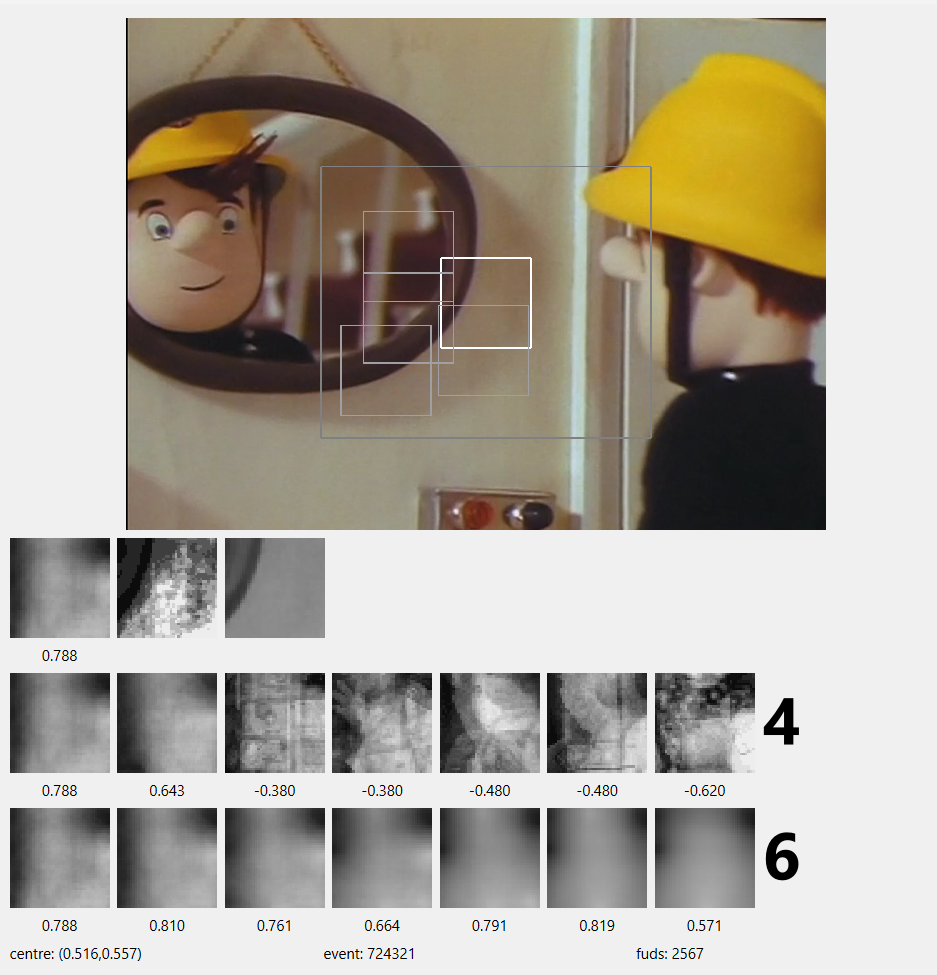
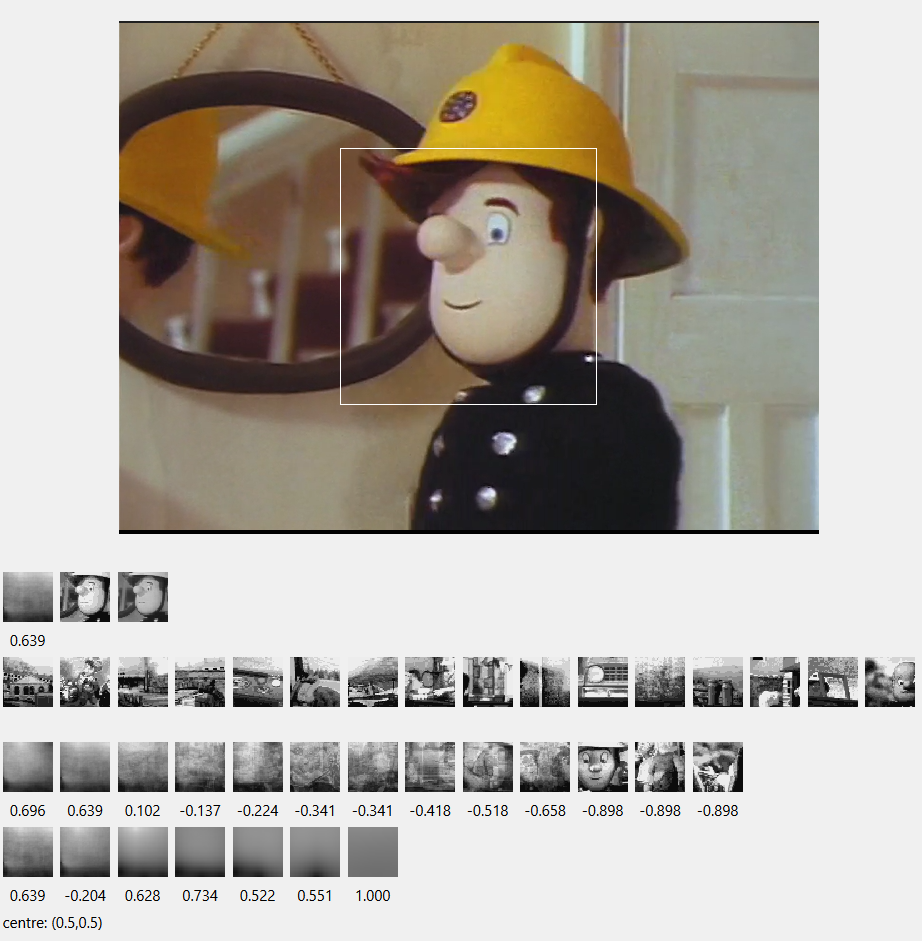
fix model 10 images, readme

diff --git a/README.md b/README.md
@@ -760,7 +760,7 @@ with `actor.json` -
 	"interval" : 250,
 	"x" : 870,
 	"width" : 560,
-	"model_initial" : "model010",
+	"model_initial" : "model013",
 	"mode" : "mode004",
 	"event_size" : 5,
 	"threads" : 6,
@@ -777,7 +777,7 @@ with `actor.json` -
 ```
 (Note that if there is no description here of a configuration parameter, the code can be examined in `win007.cpp` and `win008.cpp`.) Here is an example from Fireman Sam captured in the opening sequence of the first episode -
  
-![actor002_model010_Sam_001](images/actor002_model010_Sam_001.png) 
+![actor002_model013_Sam_001](images/actor002_model013_Sam_001.png) 
 
 Now `actor002` differs from `actor001`; instead of the array of representations for all of the scales that we see in `actor001`, we are able to see more details of the position that the current fixed scale *slice* has within the *model*. 
 
@@ -787,7 +787,7 @@ In the second row the sibling *slice* representations and their *likelihoods* ar
 
 The third row shows the ancestor *slices*, with the current *slice* shown first, then its parent, grandparent, great-grandparent, et cetera to the root *slice*. If there are too many ancestors the number of missing ancestors is shown at the right.  If all of the ancestors are visible, the sequence shows from right to left the increasing specialisation of the *slice* along its path through the *model*, from the most general at the root, which is the average of all *events*, to the *slice* itself at the leaf.
 
-<a name="model010"></a>
+<a name="model013"></a>
  
 To show a selection of example *events* from the current *slice*, set `interactive_examples` in the configuration. (We can also set `multiplier` to 1 to show smaller images of the example *events*.) For example, `actor.json` -
 ```
@@ -795,7 +795,7 @@ To show a selection of example *events* from the current *slice*, set `interacti
 	"interval" : 250,
 	"x" : 870,
 	"width" : 560,
-	"model_initial" : "model010",
+	"model_initial" : "model013",
 	"mode" : "mode004",
 	"event_size" : 5,
 	"threads" : 6,
@@ -813,15 +813,15 @@ To show a selection of example *events* from the current *slice*, set `interacti
 	"warning_action" : false
 }
 ```
-![actor002_model010_Sam_002](images/actor002_model010_Sam_002.png) 
+![actor002_model013_Sam_002](images/actor002_model013_Sam_002.png) 
 
 The examples row is inserted between the top row and the siblings row. There are as many example representations as can be fitted in the available images (defined by `label_size` in the configuration). If the *slice* has more *events* than the available images, they are taken at regular intervals from the *slice*.
 
-In the Fireman Sam example above we can see the *slice* matches the greyscale record only very roughly. The bucketing of the *valency* record has exaggerated the slightly varying brightness of the wallpaper to the right of the mirror frame, and so the *slice* has matched a dark area in the top right which is really just an artefact of the `valent` algorithm. 
+In the Fireman Sam example above we can see the *slice* representation matches the greyscale record only very roughly.
 
-There are two *on-diagonal* siblings in this case, with the current *slice* being the larger of the two. *On-diagonal* siblings usually resemble each other except for where the *derived alignment* of their *fud* forks the divergence. The *on-diagonal* siblings are usually still very generalised, depending on the length of their path, while the *off-diagonal* siblings look like the ghostly mixtures of the few *events* they contain.
+There are two *on-diagonal* siblings in this case, with a third somewhat off the *diagonal*. The current *slice* has the largest *likelihood*. *On-diagonal* siblings usually resemble each other except for where the *derived alignment* of their *fud* forks the divergence. The *on-diagonal* siblings are usually still very generalised, depending on the length of their path, while the *off-diagonal* siblings look like the ghostly mixtures of the few *events* they contain.
 
-In the Fireman Sam example above we can see that the examples vary a lot, but they all have darker areas on the left hand margin and at the top right. None of them look like mirror frames.
+In the Fireman Sam example above we can see that the examples vary a lot, but they all have darker areas at the top right. Only two look like eyes but neither are at quite the correct position.
  
 We can examine the same image with a *model* that uses the `valentFixed` algorithm instead. For example, `actor.json` -
 ```
@@ -829,14 +829,11 @@ We can examine the same image with a *model* that uses the `valentFixed` algorit
 	"interval" : 250,
 	"x" : 870,
 	"width" : 560,
-	"model_initial" : "model036",
-	"mode" : "mode004",
+	"model_initial" : "model013",
 	"event_size" : 1,
 	"threads" : 6,
 	"valency_fixed" : true,
 	"scale" : 0.177,
-	"range_centreX" : 0.04425,
-	"range_centreY" :0.04425,
 	"interactive" : true,
 	"interactive_examples" : true,
 	"multiplier" : 1,
@@ -847,9 +844,9 @@ We can examine the same image with a *model* that uses the `valentFixed` algorit
 	"warning_action" : false
 }
 ```
-![actor002_model010_Sam_003](images/actor002_model010_Sam_003.png) 
+![actor002_model013_Sam_003](images/actor002_model013_Sam_003.png) 
 
-We introduced the `valentFixed` algorithm when we switched from Fireman Sam to Film Noir (see *model* 25 and after, below). We can see that the examples above are from the Film Noir films rather than Fireman Sam, but the *slice* has matched the darker area in the top left correctly.
+We introduced the `valentFixed` algorithm when we switched from Fireman Sam to Film Noir (see *model* 25 and after, below). The *slice* path length is now somewhat shorter. We can see from that the examples above that the *slice* has matched the darker area in the top right correctly, although not as well as the `valent` algorithm on which this *model* was trained.
 
 In this scene from 'Citizen Kane' the mode 4 focus has found a hotspot just above the woman's left eye using *model* 41 -
 
@@ -1294,7 +1291,7 @@ First let us examine the `length_file` -
 
 ![contour005_055_minent_length](images/contour005_055_minent_length.png) 
 
-Here we show the lengths of the *slice* path at each point with the brightness of the pixel in proportion to the length as a fraction of the maximum length. So the bright locations may be thought of as hotspots where the *model* is particularly specialised. In this case we can see hotspots around the edges of the man's face and shoulders. In the example above we restrict the generated image only to those regions where the frame entropy is not less than the minimim of 1.2. We can generate the image without the minimum entropy -
+Here we show the lengths of the *slice* path in the *decomposition* at each point with the brightness of the pixel in proportion to the length as a fraction of the maximum length. So the bright locations may be thought of as hotspots where the *model* is particularly specialised. In this case we can see hotspots around the edges of the man's face and shoulders. In the example above we restrict the generated image only to those regions where the frame entropy is not less than the minimim of 1.2. We can generate the image without the minimum entropy -
 
 ![contour005_055_length](images/contour005_055_length.png) 
 
@@ -1414,7 +1411,7 @@ Intermediate between the quantitative and qualitative are the contour images. Se
 
 ##### Random models
 
-*Models* 10-14 run in `mode001` which is the pure random mode of [`actor001`](#actor001). `event_size` *events* are taken from each image with the frame centres randomly chosen in a area +/- `random_centreX` and  +/- `random_centreY` about the centre of the image `(0.5,0.5)`. A record is constructed and bucketed for the frame. See [Records and representations](#Records_and_representations) above for details. 
+*Models* 10-14 run in `mode001` which is the pure random mode of [`actor001`](#actor001). `event_size` *events* are taken from each image with the frame centres randomly chosen in a area +/- `random_centreX` and  +/- `random_centreY` about the centre of the image `(0.5,0.5)`. The frame's scale is fixed by the `scale` parameter, which defaults to 0.5. The scales are successive decreases in half integral powers of two from *model* 10 with a scale of 0.5 to *model* 13 with a scale of 0.177. A record is constructed and bucketed for the frame. See [Records and representations](#Records_and_representations) above for details. 
 
 If `entropy_minimum` is set to some non-zero positive real number, e.g. `"entropy_minimum" : 1.2`, records with lower entropies will be rejected. See also the discussion about [browsing entropies](#interactive_entropies) above. Note that the `entropy_minimum` functionality is only used after *model* 47, when it was noticed that interesting features such as faces were being ignored in favour of the dark corners so common in Film Noir.
 
@@ -1428,21 +1425,91 @@ If `entropy_minimum` is set to some non-zero positive real number, e.g. `"entrop
 	"event_size" : 4,
 	"random_centreX" : 0.41,
 	"random_centreY" : 0.25,
-	"event_maximum" : 720001,
+	"event_maximum" : 720000,
 	"lag_threshold" : 5,
 	"motion_detection_threshold" : 25,
 	"logging_event" : true,
 	"logging_event_factor" : 1000,
-	"warning_action" : true,
+	"warning_action" : false,
 	"summary_active" : true
 }
 ```
+We can browse in `actor002` with the following `actor.json` -
+```
+{
+	"interval" : 250,
+	"x" : 870,
+	"width" : 560,
+	"model_initial" : "model010",
+	"threads" : 6,
+	"interactive" : true,
+	"interactive_examples" : true,
+	"multiplier" : 1,
+	"label_size" : 16,
+	"disable_update" : true
+}
+```
+![actor002_model010_Sam_001](images/actor002_model010_Sam_001.png) 
 
-Screenshots from *model* 10 are included in the discussion of [interactive browsing](#model010), above. The *slices* do not yet seem to capture features. The examples are only related by their areas of light and dark.
+The *slices* do not yet seem to capture features. The examples are only related by their areas of light and dark. Browsing around suggests that near the root *slices* the representations mainly have a light centre and tend to *classified* by the arrangement of brightness around the periphery of the frame.
 
-10,11,12,13 differ in their scales but all have similar growth rates, means and std devs, so clearly smaller models are fairly scale invariant - possibly because common foreground features are at various distances, but more likely is that smaller models are still distinguishing between various distributions of light and dark, mainly with a lighter centre
+This is the configuration for *model* 13, `model013.json` -
+```
+{
+	"model" : "model013",
+	"interval" : 40,
+	"mode" : "mode001",
+	"scale" : 0.177,
+	"event_size" : 4,
+	"random_centreX" : 0.549,
+	"random_centreY" : 0.412,
+	"event_maximum" : 720000,
+	"lag_threshold" : 5,
+	"motion_detection_threshold" : 25,
+	"logging_event" : true,
+	"logging_event_factor" : 1000,
+	"warning_action" : false,
+	"summary_active" : true
+}
+```
+Screenshots from *model* 13 are included in the discussion of [interactive browsing](#model013), above, for example -
 
-14 is the same as 12 but with a higher threshold, however we see the growth rate decline slightly.
+![actor002_model013_Sam_002](images/actor002_model013_Sam_002.png) 
+
+As can be seen in the table above, *models* 10, 11, 12 and 13 differ only in their scales but all have similar growth rates, means and deviations. So it seems that, from a statistical point of view, these small *models*, of mean *decomposition* path length of only around 7, are fairly scale invariant. Possibly this is because common foreground features are at varying distances, but a more likely reason is that the *models* are still at the stage of distinguishing between only very general distributions of light and dark. 
+
+*Model* 14 is the same as 12 but with a higher threshold (1000 instead of the default of 200), `model014.json` -
+```
+{
+	"model" : "model014",
+	"interval" : 40,
+	"mode" : "mode001",
+	"induceThreshold" : 1000,
+	"scale" : 0.25,
+	"event_size" : 4,
+	"random_centreX" : 0.5,
+	"random_centreY" : 0.375,
+	"event_maximum" : 720000,
+	"lag_threshold" : 5,
+	"motion_detection_threshold" : 25,
+	"logging_event" : true,
+	"logging_event_factor" : 1000,
+	"warning_action" : false,
+	"summary_active" : true
+}
+```
+The growth rate declines slightly, so we proceeded with the default threshold.
+
+In order to see if there is some qualitative difference between *models* 10 to 13, we would like to try to judge if *likely* locations are clustered for different images. That is, we want to show the *likelihood* density over an image. See [generate_contour](#generate_contour) above for a description of how we did this.
+
+For an input image of 
+
+![contour001](images/contour001.png) 
+
+The path length, or actual *likelihood*, image for *model* 10 is rather random looking -
+
+![contour001_010_length](images/contour001_010_length.png) 
+
 
 generate_contour closely related to scanning. Show the 10-13 maps for Sam and perhaps alarm clock. Model 13 contour maps finally show outlines of objects such as mirror. So we proceed with this scale in different modes. TODO 
 
